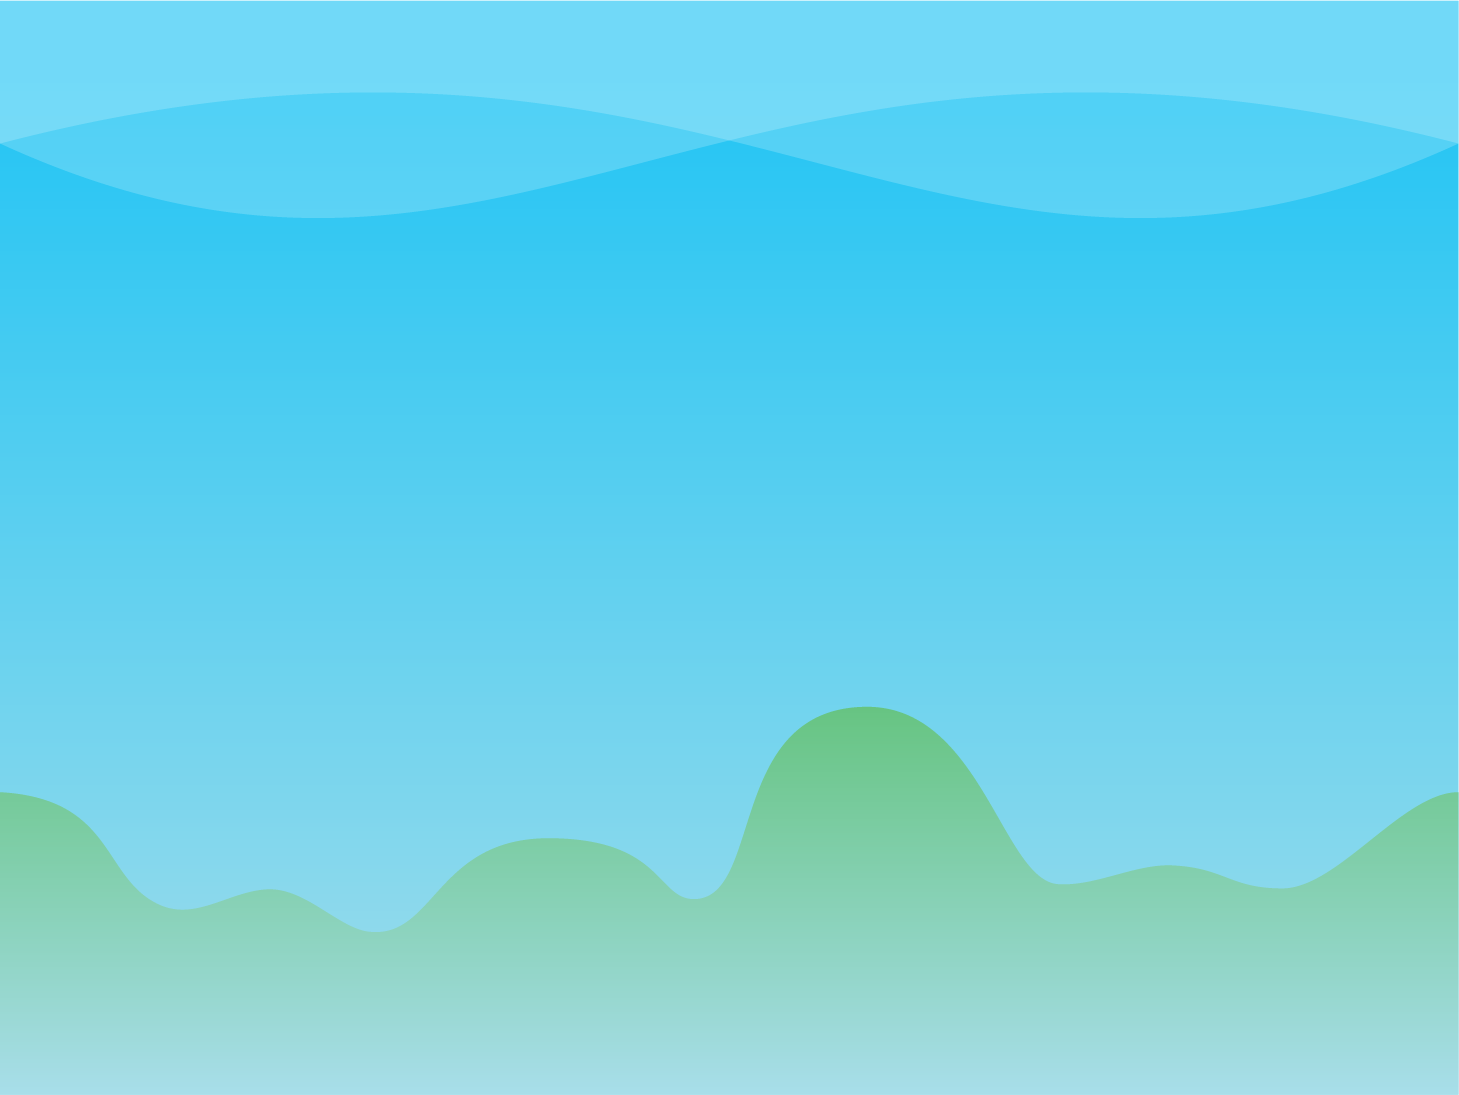
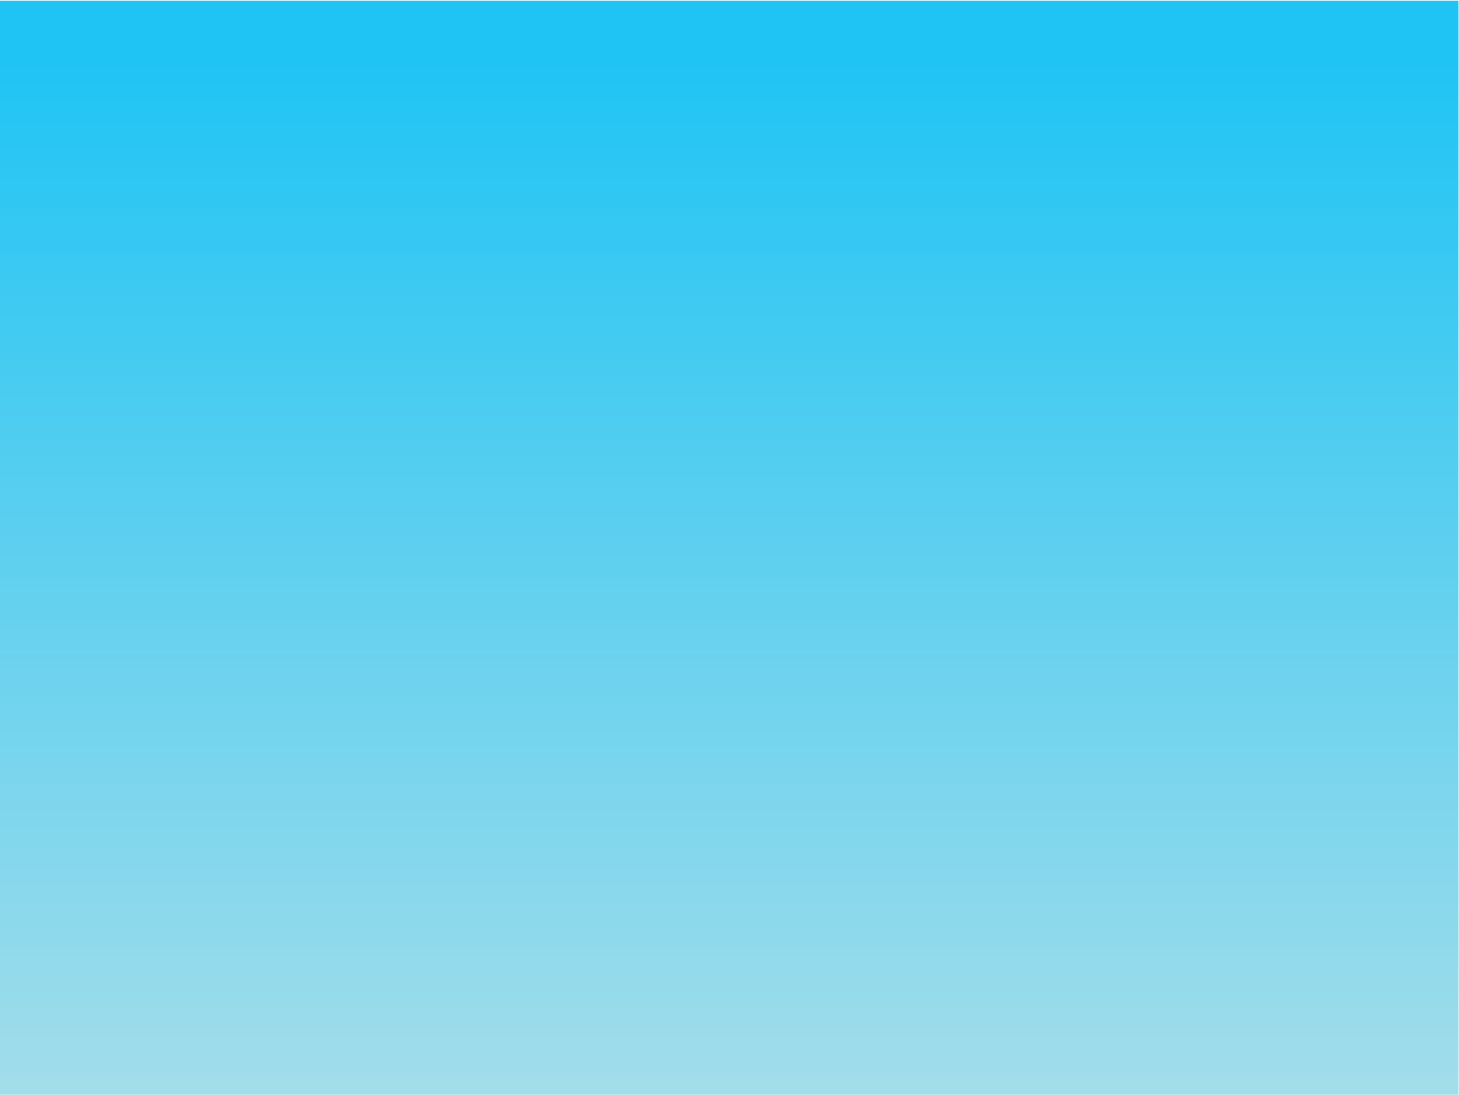
scrollerUpdated

diff --git a/scripts/mainScroller.cs b/scripts/mainScroller.cs
@@ -42,7 +42,12 @@ function reset( %this )
     // Create some scrollers.
     %this.createBackground();   
     %this.createFarScroller();
-    %this.createNearScroller();
+    %this.createNear1Scroller();
+    %this.createNear2Scroller();
+    %this.createNear3Scroller();
+    %this.createNear4Scroller();
+    %this.createNear5Scroller();
+    %this.createGroundScroller();
 }
 
 //-----------------------------------------------------------------------------
@@ -60,7 +65,7 @@ function createBackground()
     %object.Position = "0 0";
 
     // Set the size.        
-    %object.Size = "100 75";
+    %object.Size = "100 100";
     
     // Set to the furthest background layer.
     %object.SceneLayer = 31;
@@ -84,22 +89,22 @@ function createFarScroller()
     // Always try to configure a scene-object prior to adding it to a scene for best performance.
 
     // Set the position.
-    %object.Position = "0 -10";
+    %object.Position = "0 0";
 
     // Set the size.        
-    %object.Size = "100 75";
+    %object.Size = "100 100";
 
     // Set to the furthest background layer.
     %object.SceneLayer = 30;
     
     // Set the scroller to use a static image.
-    %object.Image = "BoatModule:TreeBackground2";
+    %object.Image = "BoatModule:TreeBackground6";
     
     // We don't really need to do this as the frame is set to zero by default.
     %object.Frame = 0;
 
     // Set the scroller moving in the X axis.
-    %object.ScrollX = 3;
+    %object.ScrollX = 2;
     
     // Set the scroller to only show half of the static image in the X axis.
     %object.RepeatX = 0.5;
@@ -110,7 +115,7 @@ function createFarScroller()
 
 //-----------------------------------------------------------------------------
 
-function createNearScroller()
+function createNear1Scroller()
 {    
     // Create the scroller.
     %object = new Scroller();
@@ -120,13 +125,13 @@ function createNearScroller()
     // Always try to configure a scene-object prior to adding it to a scene for best performance.
 
     // Set the position.
-    %object.Position = "0 -10";
+    %object.Position = "0 0";
 
     // Set the size.        
-    %object.Size = "100 75";
+    %object.Size = "100 100";
     
     // Set to the furthest background layer.
-    %object.SceneLayer = 29;
+    %object.SceneLayer = 25;
     
     // Set the scroller to use a static image.
     %object.Image = "BoatModule:TreeBackground1";
@@ -135,7 +140,7 @@ function createNearScroller()
     %object.Frame = 0;
     
     // Set the scroller moving in the X axis.
-    %object.ScrollX = 10;
+    %object.ScrollX = 7;
 
     // Set the scroller to only show half of the static image in the X axis.
     %object.RepeatX = 0.5;
@@ -144,5 +149,187 @@ function createNearScroller()
     SandboxScene.add( %object );    
 }
 
+
 //-----------------------------------------------------------------------------
 
+function createNear2Scroller()
+{    
+    // Create the scroller.
+    %object = new Scroller();
+    // Note this scroller for the touch controls.
+    ScrollerToy.NearScroller = %object;    
+    
+    // Always try to configure a scene-object prior to adding it to a scene for best performance.
+
+    // Set the position.
+    %object.Position = "0 0";
+
+    // Set the size.        
+    %object.Size = "100 100";
+    
+    // Set to the furthest background layer.
+    %object.SceneLayer = 26;
+    
+    // Set the scroller to use a static image.
+    %object.Image = "BoatModule:TreeBackground2";
+    
+    // We don't really need to do this as the frame is set to zero by default.
+    %object.Frame = 0;
+    
+    // Set the scroller moving in the X axis.
+    %object.ScrollX = 6;
+
+    // Set the scroller to only show half of the static image in the X axis.
+    %object.RepeatX = 0.5;
+        
+    // Add the sprite to the scene.
+    SandboxScene.add( %object );    
+}
+
+
+//-----------------------------------------------------------------------------
+
+function createNear3Scroller()
+{    
+    // Create the scroller.
+    %object = new Scroller();
+    // Note this scroller for the touch controls.
+    ScrollerToy.NearScroller = %object;    
+    
+    // Always try to configure a scene-object prior to adding it to a scene for best performance.
+
+    // Set the position.
+    %object.Position = "0 0";
+
+    // Set the size.        
+    %object.Size = "100 100";
+    
+    // Set to the furthest background layer.
+    %object.SceneLayer = 27;
+    
+    // Set the scroller to use a static image.
+    %object.Image = "BoatModule:TreeBackground3";
+    
+    // We don't really need to do this as the frame is set to zero by default.
+    %object.Frame = 0;
+    
+    // Set the scroller moving in the X axis.
+    %object.ScrollX = 5;
+
+    // Set the scroller to only show half of the static image in the X axis.
+    %object.RepeatX = 0.5;
+        
+    // Add the sprite to the scene.
+    SandboxScene.add( %object );    
+}
+
+
+//-----------------------------------------------------------------------------
+
+function createNear4Scroller()
+{    
+    // Create the scroller.
+    %object = new Scroller();
+    // Note this scroller for the touch controls.
+    ScrollerToy.NearScroller = %object;    
+    
+    // Always try to configure a scene-object prior to adding it to a scene for best performance.
+
+    // Set the position.
+    %object.Position = "0 0";
+
+    // Set the size.        
+    %object.Size = "100 100";
+    
+    // Set to the furthest background layer.
+    %object.SceneLayer = 28;
+    
+    // Set the scroller to use a static image.
+    %object.Image = "BoatModule:TreeBackground4";
+    
+    // We don't really need to do this as the frame is set to zero by default.
+    %object.Frame = 0;
+    
+    // Set the scroller moving in the X axis.
+    %object.ScrollX = 4;
+
+    // Set the scroller to only show half of the static image in the X axis.
+    %object.RepeatX = 0.5;
+        
+    // Add the sprite to the scene.
+    SandboxScene.add( %object );    
+}
+
+
+//-----------------------------------------------------------------------------
+
+function createNear5Scroller()
+{    
+    // Create the scroller.
+    %object = new Scroller();
+    // Note this scroller for the touch controls.
+    ScrollerToy.NearScroller = %object;    
+    
+    // Always try to configure a scene-object prior to adding it to a scene for best performance.
+
+    // Set the position.
+    %object.Position = "0 0";
+
+    // Set the size.        
+    %object.Size = "100 100";
+    
+    // Set to the furthest background layer.
+    %object.SceneLayer = 29;
+    
+    // Set the scroller to use a static image.
+    %object.Image = "BoatModule:TreeBackground5";
+    
+    // We don't really need to do this as the frame is set to zero by default.
+    %object.Frame = 0;
+    
+    // Set the scroller moving in the X axis.
+    %object.ScrollX = 3;
+
+    // Set the scroller to only show half of the static image in the X axis.
+    %object.RepeatX = 0.5;
+        
+    // Add the sprite to the scene.
+    SandboxScene.add( %object );    
+}
+
+
+//-----------------------------------------------------------------------------
+
+function createGroundScroller()
+{    
+    // Create the scroller.
+    %object = new Scroller();
+    // Note this scroller for the touch controls.
+    ScrollerToy.NearScroller = %object;    
+    
+    // Always try to configure a scene-object prior to adding it to a scene for best performance.
+
+    // Set the position.
+    %object.Position = "0 5";
+
+    // Set the size.        
+    %object.Size = "65 80";
+    
+    // Set to the furthest background layer.
+    %object.SceneLayer = 28;
+    
+    // Set the scroller to use a static image.
+    %object.Image = "BoatModule:ground";
+    
+    // We don't really need to do this as the frame is set to zero by default.
+    %object.Frame = 0;
+    
+    // Set the scroller moving in the X axis.
+    %object.ScrollX = 7;
+
+    // Set the scroller to only show half of the static image in the X axis.
+    %object.RepeatX = 0.5;
+        
+    // Add the sprite to the scene.
+    SandboxScene.add( %object );    
+}

diff --git a/main.cs b/main.cs
@@ -21,10 +21,14 @@ function BoatModule::create( %this )
     BoatModule.MainPlane = createMainPlane();
     BoatModule.isTouchDown = false;
 
-createBackground();   
+	createBackground();   
     createFarScroller();
-    createNearScroller();
-
+    createNear1Scroller();
+    createNear2Scroller();
+    createNear3Scroller();
+    createNear4Scroller();
+    createNear5Scroller();
+	createGroundScroller();
     // createOcean();
     // createSky();
 }
